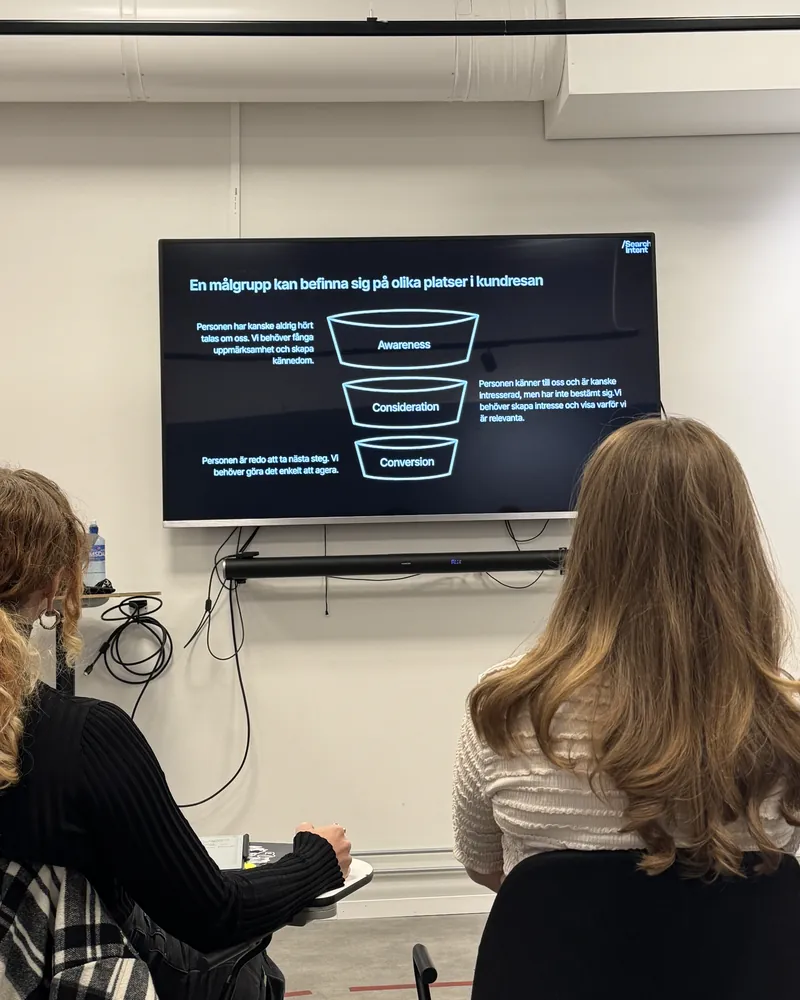
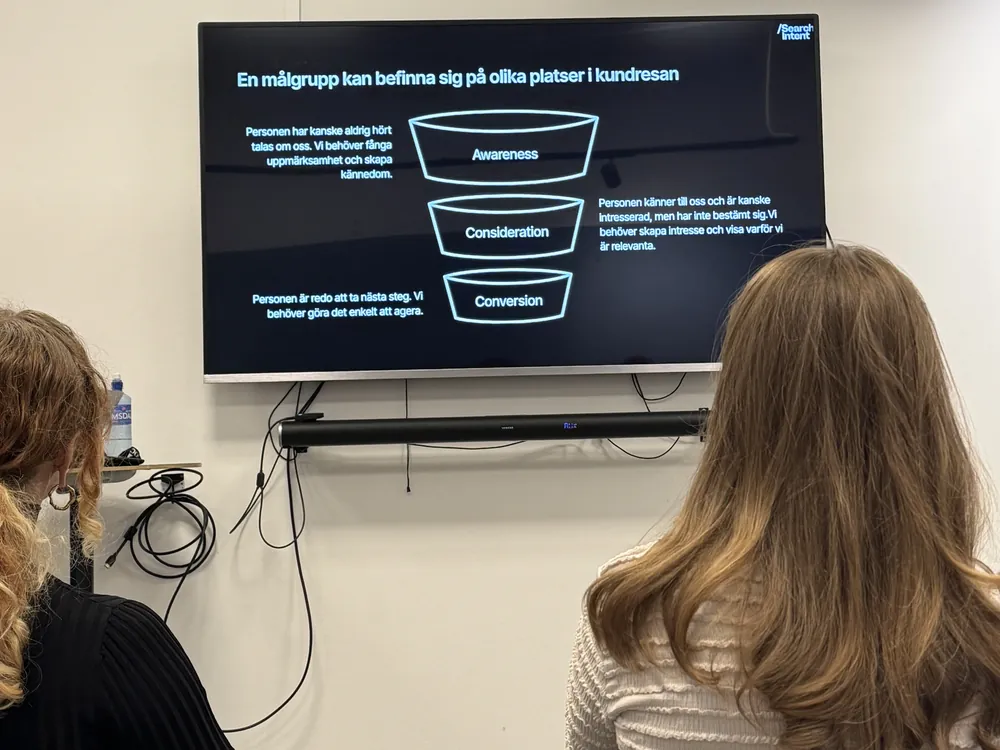
Jämna rader i Min tid på Berghs
- Lektionsbilden är liggande, lika hög som lunchbilden
- Bilderna ligger i rader så att varje rad börjar i samma höjd

diff --git a/index.html b/index.html
@@ -57,7 +57,7 @@ j=d.createElement(s),dl=l!='dataLayer'?'&l='+l:'';j.async=true;j.src=
   <link rel="preconnect" href="https://fonts.gstatic.com" crossorigin>
   <link href="https://fonts.googleapis.com/css2?family=Inter:wght@300;400;500;600&display=swap" rel="stylesheet">
 
-  <link href="style.css?v=13" rel="stylesheet" />
+  <link href="style.css?v=14" rel="stylesheet" />
   <link href="api-weather-wine/style.css?v=8" rel="stylesheet" />
 </head>
 <body>
@@ -233,20 +233,20 @@ height="0" width="0" style="display:none;visibility:hidden"></iframe></noscript>
             <figcaption>Teamet bakom Aroma Roast-arbetet och grundarna av Aroma Roast</figcaption>
           </figure>
           <figure class="photo">
-            <img src="bilder/berghs/lunch-klatterverket.webp" alt="Lunch med några i klassen på Klätterverket" width="1000" height="750" loading="lazy">
-            <figcaption>Lunch på Klätterverket som ligger nära skolan</figcaption>
-          </figure>
-          <figure class="photo">
             <img src="bilder/berghs/aroma-roast-aulan.webp" alt="Vi presenterar Aroma Roast på scenen i Aulan" width="800" height="1000" loading="lazy">
             <figcaption>Presentation av Aroma Roast i Aulan</figcaption>
           </figure>
           <figure class="photo">
-            <img src="bilder/berghs/lektion-betald-marknadsforing.webp" alt="Lektion om betald marknadsföring, med kundresans tratt på skärmen" width="800" height="1000" loading="lazy">
-            <figcaption>Lektion om betald marknadsföring</figcaption>
-          </figure>
-          <figure class="photo">
             <img src="bilder/berghs/examensarbete-perspetivo.webp" alt="Monter från utställningen av vårt examensarbete med Perspetivo" width="800" height="1000" loading="lazy">
             <figcaption>Utställning av vårt examensarbete med Perspetivo där vi skulle få fler att gå med som panelister</figcaption>
+          </figure>
+          <figure class="photo">
+            <img src="bilder/berghs/lunch-klatterverket.webp" alt="Lunch med några i klassen på Klätterverket" width="1000" height="750" loading="lazy">
+            <figcaption>Lunch på Klätterverket som ligger nära skolan</figcaption>
+          </figure>
+          <figure class="photo">
+            <img src="bilder/berghs/lektion-betald-marknadsforing.webp" alt="Lektion om betald marknadsföring, med kundresans tratt på skärmen" width="1000" height="750" loading="lazy">
+            <figcaption>Lektion om betald marknadsföring</figcaption>
           </figure>
         </div>
       </div>

diff --git a/style.css b/style.css
@@ -1328,3 +1328,24 @@ img.screen {
   .photo-grid { column-count: 1; }
 }
 
+/* Bilderna i rader i stället för kolumner, så att bilder på samma rad börjar i samma höjd */
+.photo-grid {
+  column-count: initial;
+  display: grid;
+  grid-template-columns: repeat(3, minmax(0, 1fr));
+  gap: 24px;
+  align-items: start;
+}
+
+.photo {
+  margin: 0;
+}
+
+@media (max-width: 900px) {
+  .photo-grid { grid-template-columns: repeat(2, minmax(0, 1fr)); }
+}
+
+@media (max-width: 560px) {
+  .photo-grid { grid-template-columns: 1fr; }
+}
+
